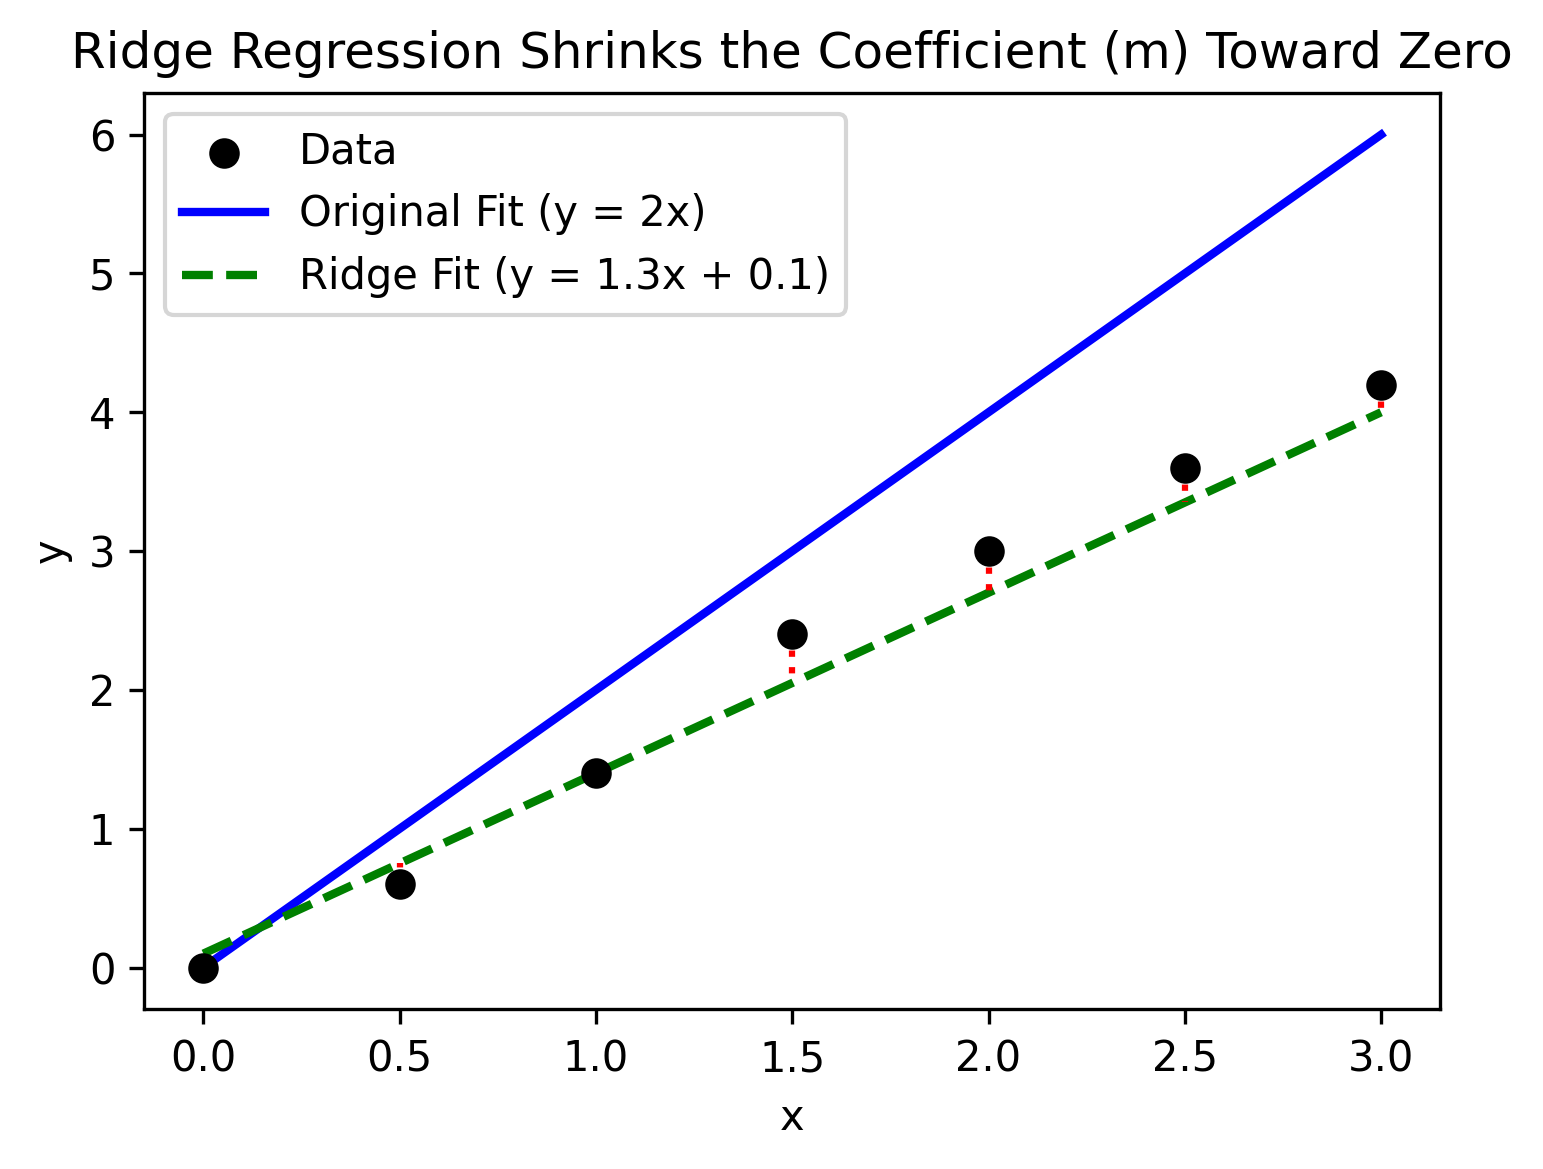
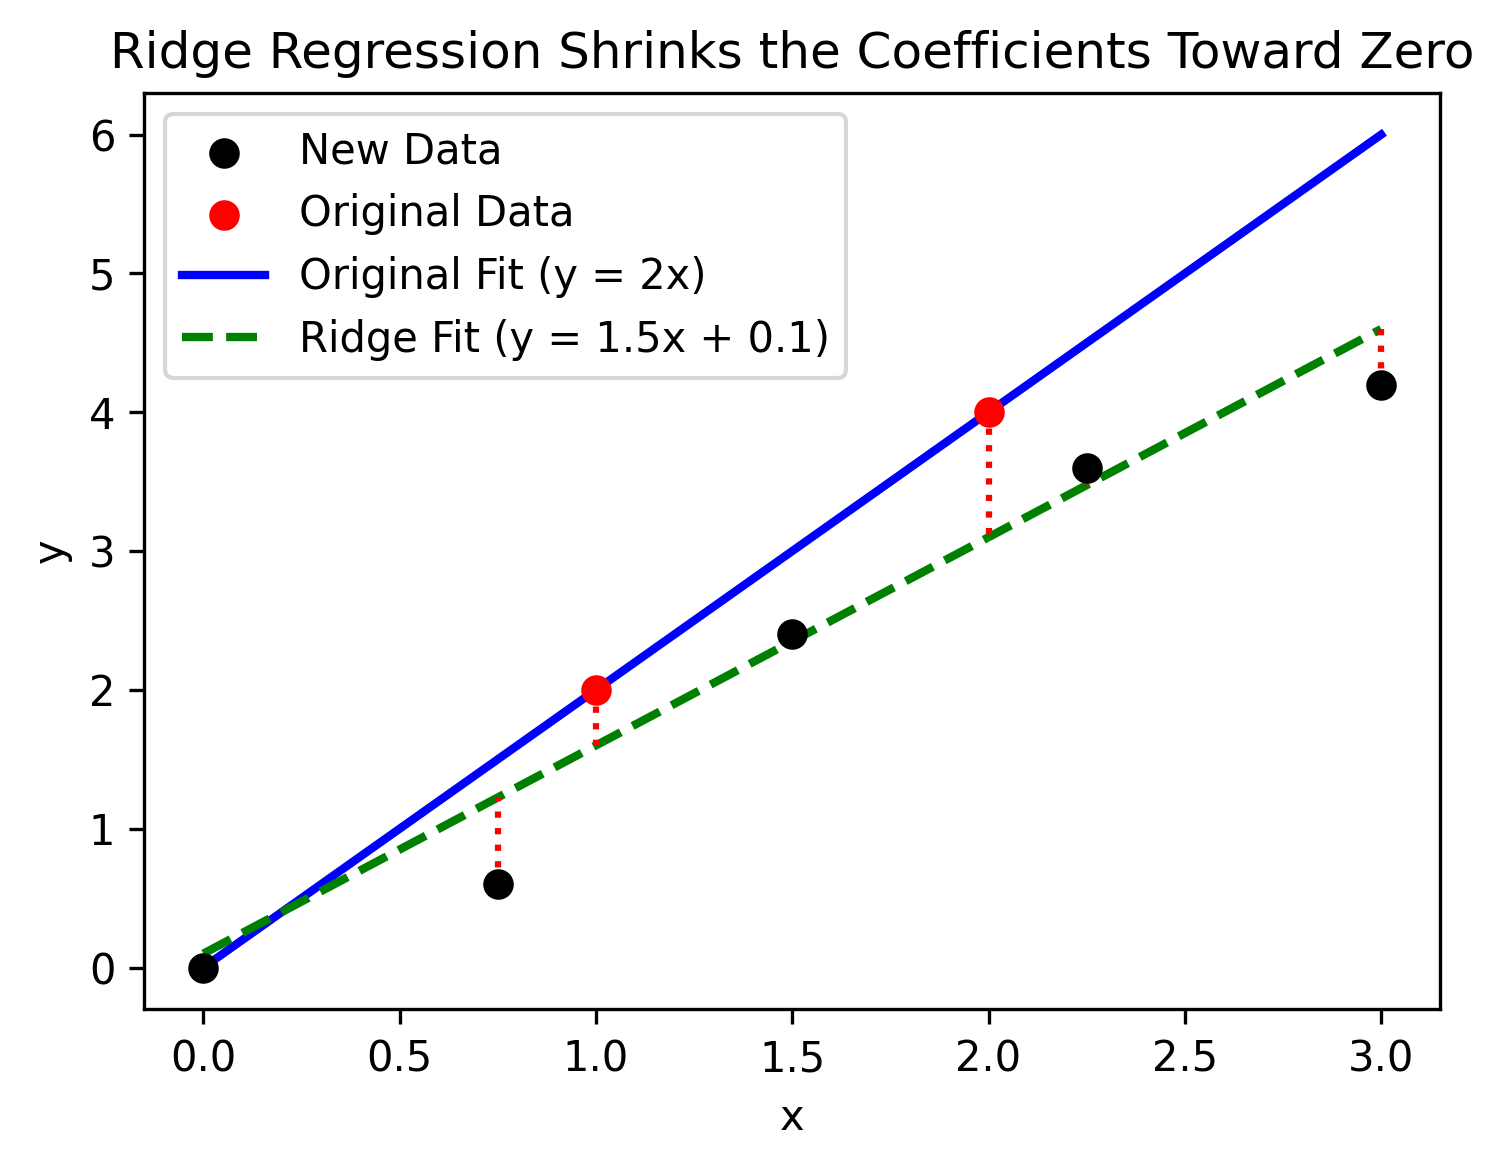
updated graph lines

diff --git a/sections/lessons.py b/sections/lessons.py
@@ -6,10 +6,12 @@ import os
 os.makedirs("assets", exist_ok=True)
 
 # Original data and line
-x2 = np.linspace(0, 3, 7)
-y2 = np.array([0, 0.6, 1.4, 2.4, 3.0, 3.6, 4.2])
-m1, b1 = 2, 0      # original OLS line
-m2, b2 = 1.3, 0.1  # shrunk Ridge-style line
+x1 = np.array([1, 2])
+y1 = np.array([2, 4])
+x2 = np.linspace(0, 3, 5) 
+y2 = np.array([0, 0.6, 2.4, 3.6, 4.2])
+m1, b1 = 2, 0      # original OLS line s
+m2, b2 = 1.5, 0.1  # shrunk Ridge-style line
 
 x_line = np.linspace(0, 3, 100)
 y_line1 = m1 * x_line + b1
@@ -18,25 +20,31 @@ y_line2 = m2 * x_line + b2
 # Predictions from each model at data x positions
 y_pred_ols = m1 * x2 + b1
 y_pred_ridge = m2 * x2 + b2
+y_pred_ridge_x1 = m2 * x1 + b2
 
 plt.figure(figsize=(5, 4))
 
 # Scatter data
-plt.scatter(x2, y2, color="black", label="Data", zorder=5, s=40)
+plt.scatter(x2, y2, color="black", label="New Data", zorder=5, s=40)
+plt.scatter(x1, y1, color="red", label="Original Data", zorder=5, s=40)
 
 # Original OLS fit (blue)
 plt.plot(x_line, y_line1, color="blue", label="Original Fit (y = 2x)", linewidth=2)
 
 # Ridge fit (green, dashed)
 plt.plot(x_line, y_line2, color="green", linestyle="--",
-         label="Ridge Fit (y = 1.3x + 0.1)", linewidth=2)
+         label="Ridge Fit (y = 1.5x + 0.1)", linewidth=2)
 
 # Residuals: red dotted lines from each point to Ridge line
 for i in range(len(x2)):
     plt.plot([x2[i], x2[i]], [y2[i], y_pred_ridge[i]],
              color="red", linestyle="dotted", linewidth=1.5)
+    
+for i in range(len(x1)):
+    plt.plot([x1[i], x1[i]], [y1[i], y_pred_ridge_x1[i]],
+             color="red", linestyle="dotted", linewidth=1.5)
 
-plt.title("Ridge Regression Shrinks the Coefficient (m) Toward Zero")
+plt.title("Ridge Regression Shrinks the Coefficients Toward Zero")
 plt.xlabel("x")
 plt.ylabel("y")
 plt.legend()
@@ -99,7 +107,7 @@ $$
     ),
 
     html.H3(
-        "New Loss = New SSE + penalty = 1 + 1.3^2 = 2.69.",
+        "New Loss = New SSE + penalty = 1 + 1.5^2 = 3.25.",
         style={
             "textAlign": "center",
         }

diff --git a/sections/introduction.py b/sections/introduction.py
@@ -26,8 +26,8 @@ plt.close()
 
 # Figure 2: Same line, but more points added
 # Figure 2: Same line, but more points added
-x2 = np.linspace(0, 3, 7)             # cover a wider x range
-y2 = np.array([0, 0.6, 1.4, 2.4, 3.0, 3.6, 4.2])  # purposely off the line
+x2 = np.linspace(0, 3, 5)             # cover a wider x range
+y2 = np.array([0, 0.6, 2.4, 3.6, 4.2])  # purposely off the line
 m, b = 2, 0                           # original line y = 2x
 
 # continuous line for visualization
